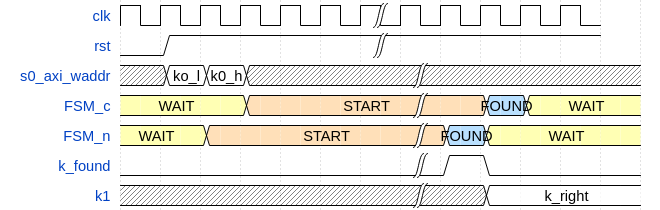
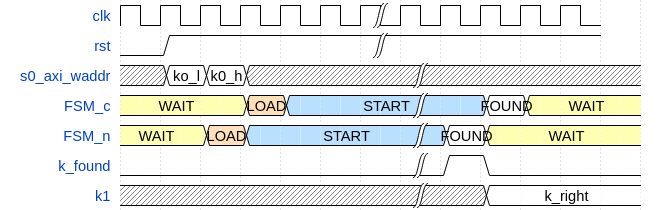
Modified report

Changed region(s): [[0.3636, 0.4571, 0.8182, 0.5714], [0.303, 0.6, 0.7576, 0.7143]]

diff --git a/REPORT.md b/REPORT.md
@@ -59,8 +59,8 @@ The __control unit__, on the other hand, does not have a reserved file, but is i
 ![fsm_cu](figures/fsm_crack.png)
 
 Three states are present:
-* __WAIT__, used to wait for the correct start, given when the higher part of `k0` is written. In this case a transition to the
-* __START__,
+* __WAIT__, used to wait for the correct start, given when the higher part of `k0` is written. In this case a transition to the __LOAD__ state is performed, to prepare the attack.
+* __START__, in this state the attack is fully running. If, by any chance, a write access to the `k0` register happens, the acquisition is stopped and the FSM goes back to __WAIT__ state
 * __FOUND__, final state in which the `irq` gets risen up, which that leads again to the __WAIT__ state
 
 ### Goal:
@@ -105,8 +105,11 @@ For the testing, we have decided to experiment a bit and follow a particular app
 
 On a first approximation of this phase, for the layer, we have performed some testing using `ModelSim` in a conventional way, i.e. writing a testbench using a regular `VHDL` file, applying inputs and checking for the outputs.
 
-Once that the validity of the control signals has been checked, we have intensively test using some `Python` scripts, which allow us to handle in an easier way the signals and the possible pattern that we can receive in output. 
+Once that the validity of the control signals has been checked, we have intensively test using some `Python` scripts, which allow us to handle in an easier way the signals and the possible pattern that we can receive in output.
 
+After several trials, we think we have obtained a design which successfully works in the "normal" operating conditions. Of course, we have tried to test for several corner cases, in order to observe possible misbehavior. We had in some occasions to correct our design to fully respect the protocol.
+
+However, it is known that testing can not be performed for all the possible input data pattern. Nevertheless, it is however possible that some conditions are not handled correctly.
 
 ## Synthesis
 We have run a synthesis script which instantiates 10 different design crackers at once. This implies that at the same time we are testing 10 different keys, therefore improving a lot with respect to a single one.
